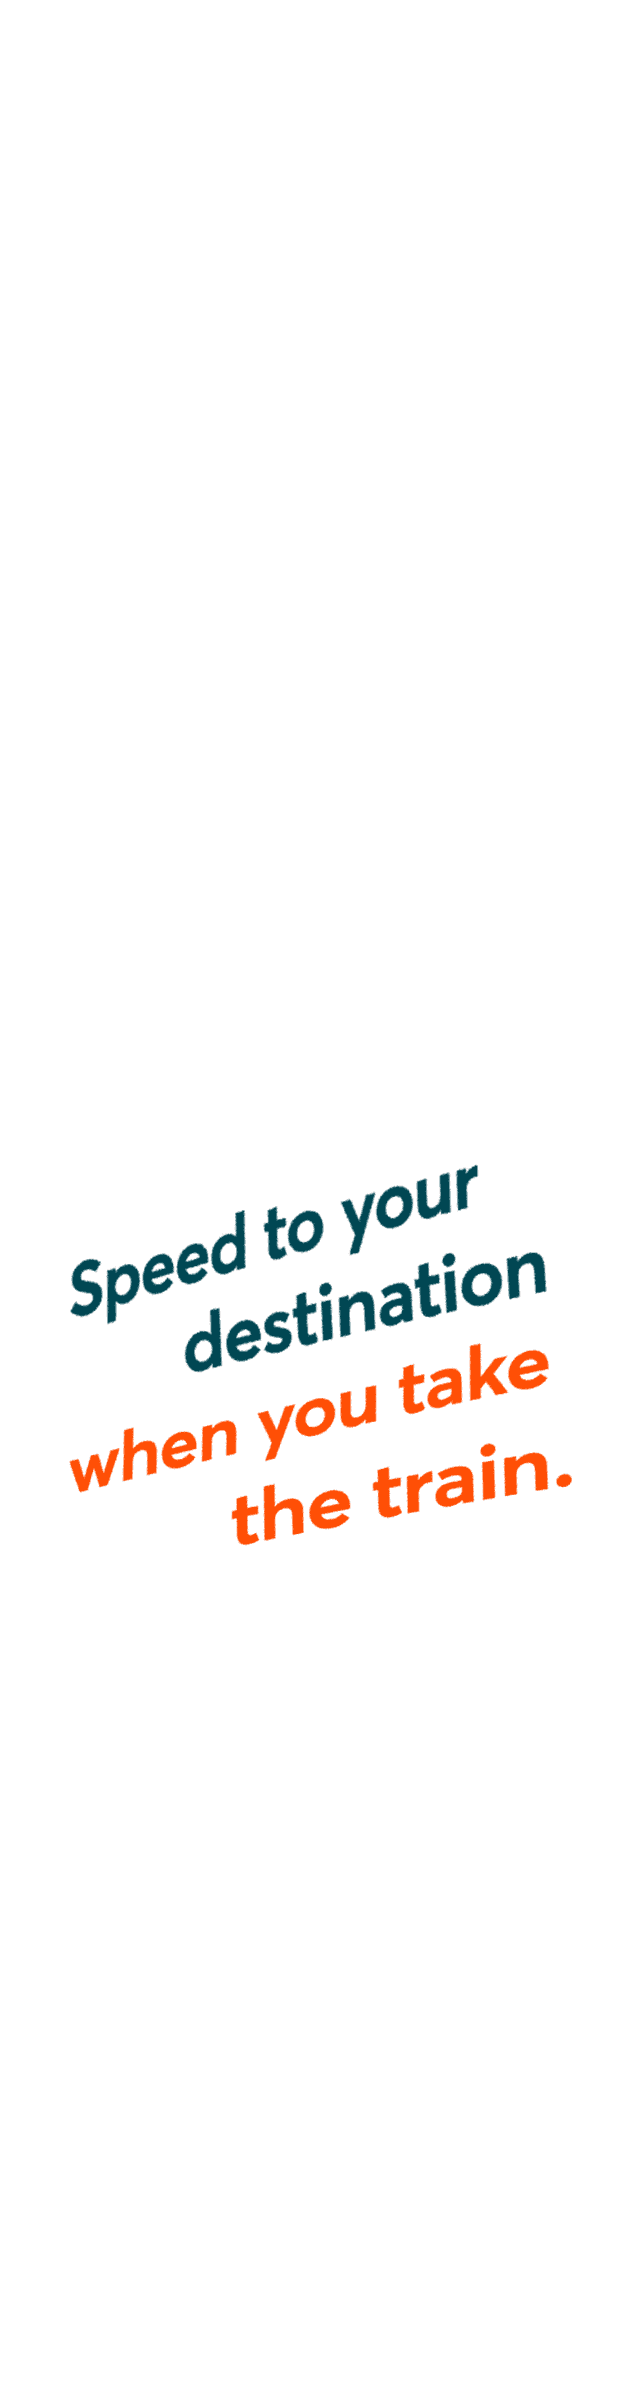
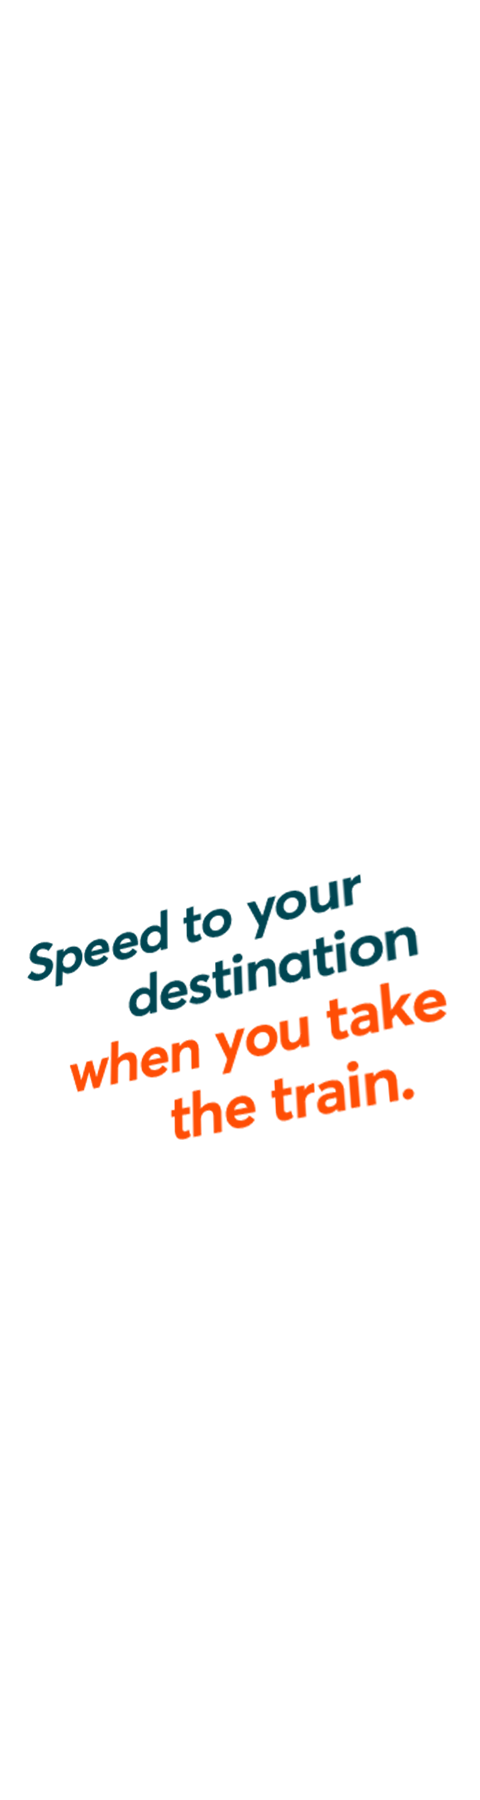
new size

Changed region(s): [[0.0625, 0.4667, 0.9375, 0.6533]]

diff --git a/Speed/10608-01_160x600/index.html b/Speed/10608-01_160x600/index.html
@@ -23,23 +23,23 @@
     <div id="main">
         <div id="background"></div>
 
-        <!-- <img src="images/ref.png" id="ref" class="absolute full-width"/> -->
+        <!-- <img src="images/frame1.jpg" id="ref" style="opacity: .5; z-index: 111;" class="absolute full-width"/> -->
 
         <div id="frame-left" class="absolute frame"></div>
         <div id="frame-right" class="absolute frame"></div>
         <div id="frame-bottom" class="absolute frame"></div>
 
         <div id="headline">
-          <img src="images/headline-6.png" id="headline-6" class="absolute full-width headline" alt="" />
-          <img src="images/headline-5.png" id="headline-5" class="absolute full-width headline" alt="" />
-          <img src="images/headline-4.png" id="headline-4" class="absolute full-width headline" alt="" />
-          <img src="images/headline-3.png" id="headline-3" class="absolute full-width headline" alt="" />
-          <img src="images/headline-2.png" id="headline-2" class="absolute full-width headline" alt="" />
-          <img src="images/headline-1.png" id="headline-1" class="absolute full-width headline" alt="" />
+          <img src="images/headline-1.png" id="headline-1" class="absolute full-width headline hidden" alt="" />
+          <img src="images/headline-2.png" id="headline-2" class="absolute full-width headline hidden" alt="" />
+          <img src="images/headline-3.png" id="headline-3" class="absolute full-width headline hidden" alt="" />
+          <img src="images/headline-4.png" id="headline-4" class="absolute full-width headline hidden" alt="" />
+          <img src="images/headline-5.png" id="headline-5" class="absolute full-width headline hidden" alt="" />
+          <img src="images/headline-6.png" id="headline-6" class="absolute full-width headline hidden" alt="" />
         </div>
 
-        <img src="images/turtle.png" id="turtle" class="absolute full-width"/>
         <img src="images/turtle-shadow.png" id="turtle-shadow" class="absolute full-width"/>
+        <img src="images/turtle.png" id="turtle" class="absolute full-width"/>
         
         <img src="images/text1.png" id="text1" class="absolute full-width" alt="" />
 

diff --git a/Speed/10608-01_160x600/main.js b/Speed/10608-01_160x600/main.js
@@ -24,9 +24,10 @@ function animate() {
 
   // tl1.set(["#main_content"], { autoAlpha: 1, force3D: true });
   tl1.set(["#cta"], { force3D: false, rotation: .001 });
+  tl1.set(["#turtle-shadow"], { x:"15px", y:"-7px" });
   
   tl1.to(['#turtle', '#turtle-shadow'], 1,{  y: '-=35', x: '+=160', ease: "power1.out" }, 0);
-  tl1.staggerTo(['.headline'], 1,{ scale: 1, y: '-=35', x: '+=160', ease: "power1.out" }, 0.1, 0);
+  tl1.staggerTo(['.headline'], 0.5,{ scale: 1, autoAlpha:1,  ease: "back.out(1.1)" }, 0.2, 0);
 
   tl1.to(['#frame-left'], 1,{ x: '+=100', ease: "power1.out" }, '+=0');
   tl1.to(['#frame-right'], 1,{ x: '-=100', ease: "power1.out" }, '<');

diff --git a/index.html b/index.html
@@ -56,6 +56,7 @@
         <a href="Glide/10608-01_728x90/index.html" target="_blank">728x90</a>
         <a href="Glide/10608-01_970x250/index.html" target="_blank">970x250</a>
         <h2>Speed</h2>
+        <a href="Speed/10608-01_160x600/index.html" target="_blank">160x600</a>
         <a href="Speed/10608-01_300x250/index.html" target="_blank">300x250</a>
         <a href="Speed/10608-01_300x600/index.html" target="_blank">300x600</a>
     </div>

diff --git a/Speed/10608-01_160x600/styles.css b/Speed/10608-01_160x600/styles.css
@@ -39,9 +39,9 @@ html, body {
 }
 
 .headline {
-  top: 35px;
-  left: -160px;
-  transform: scale(0);
+  top: 0px;
+  left: 0px;
+  transform: scale(2.5);
 }
 
 #turtle,
@@ -56,14 +56,14 @@ html, body {
 
 #logo {
   width: 128px;
-  left: 20px;
+  left: 16px;
   top: 494px;
 }
 
 #cta {
   width: 96px;
   left: 32px;
-  top: 423px;
+  top: 419px;
 }
 
 .frame {
